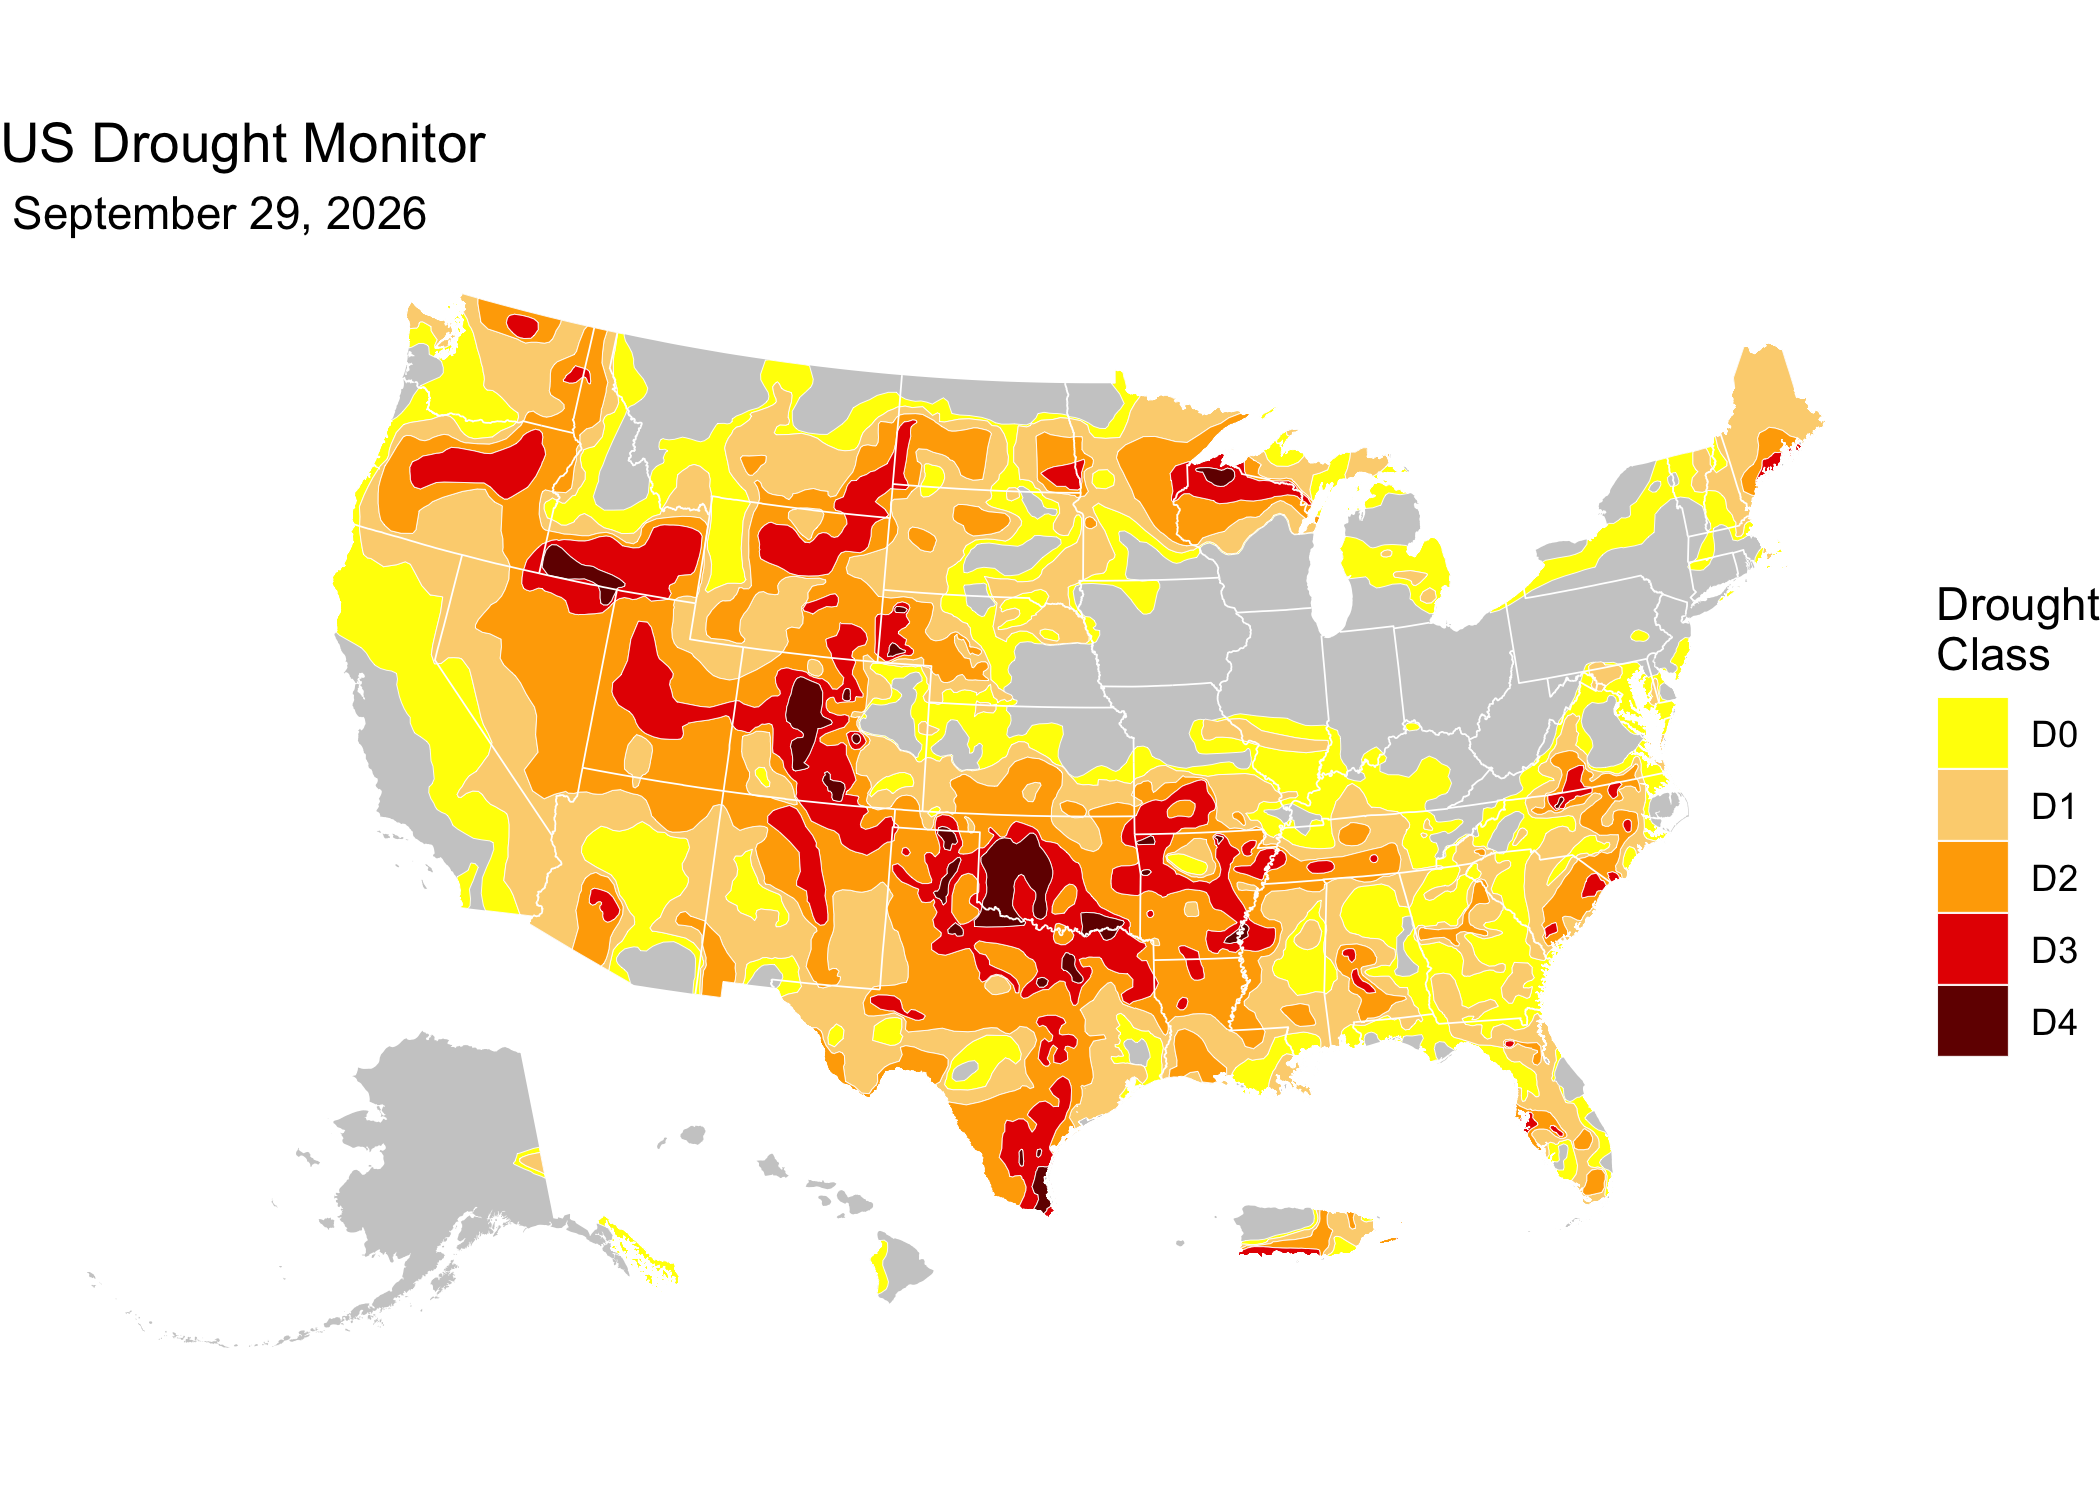
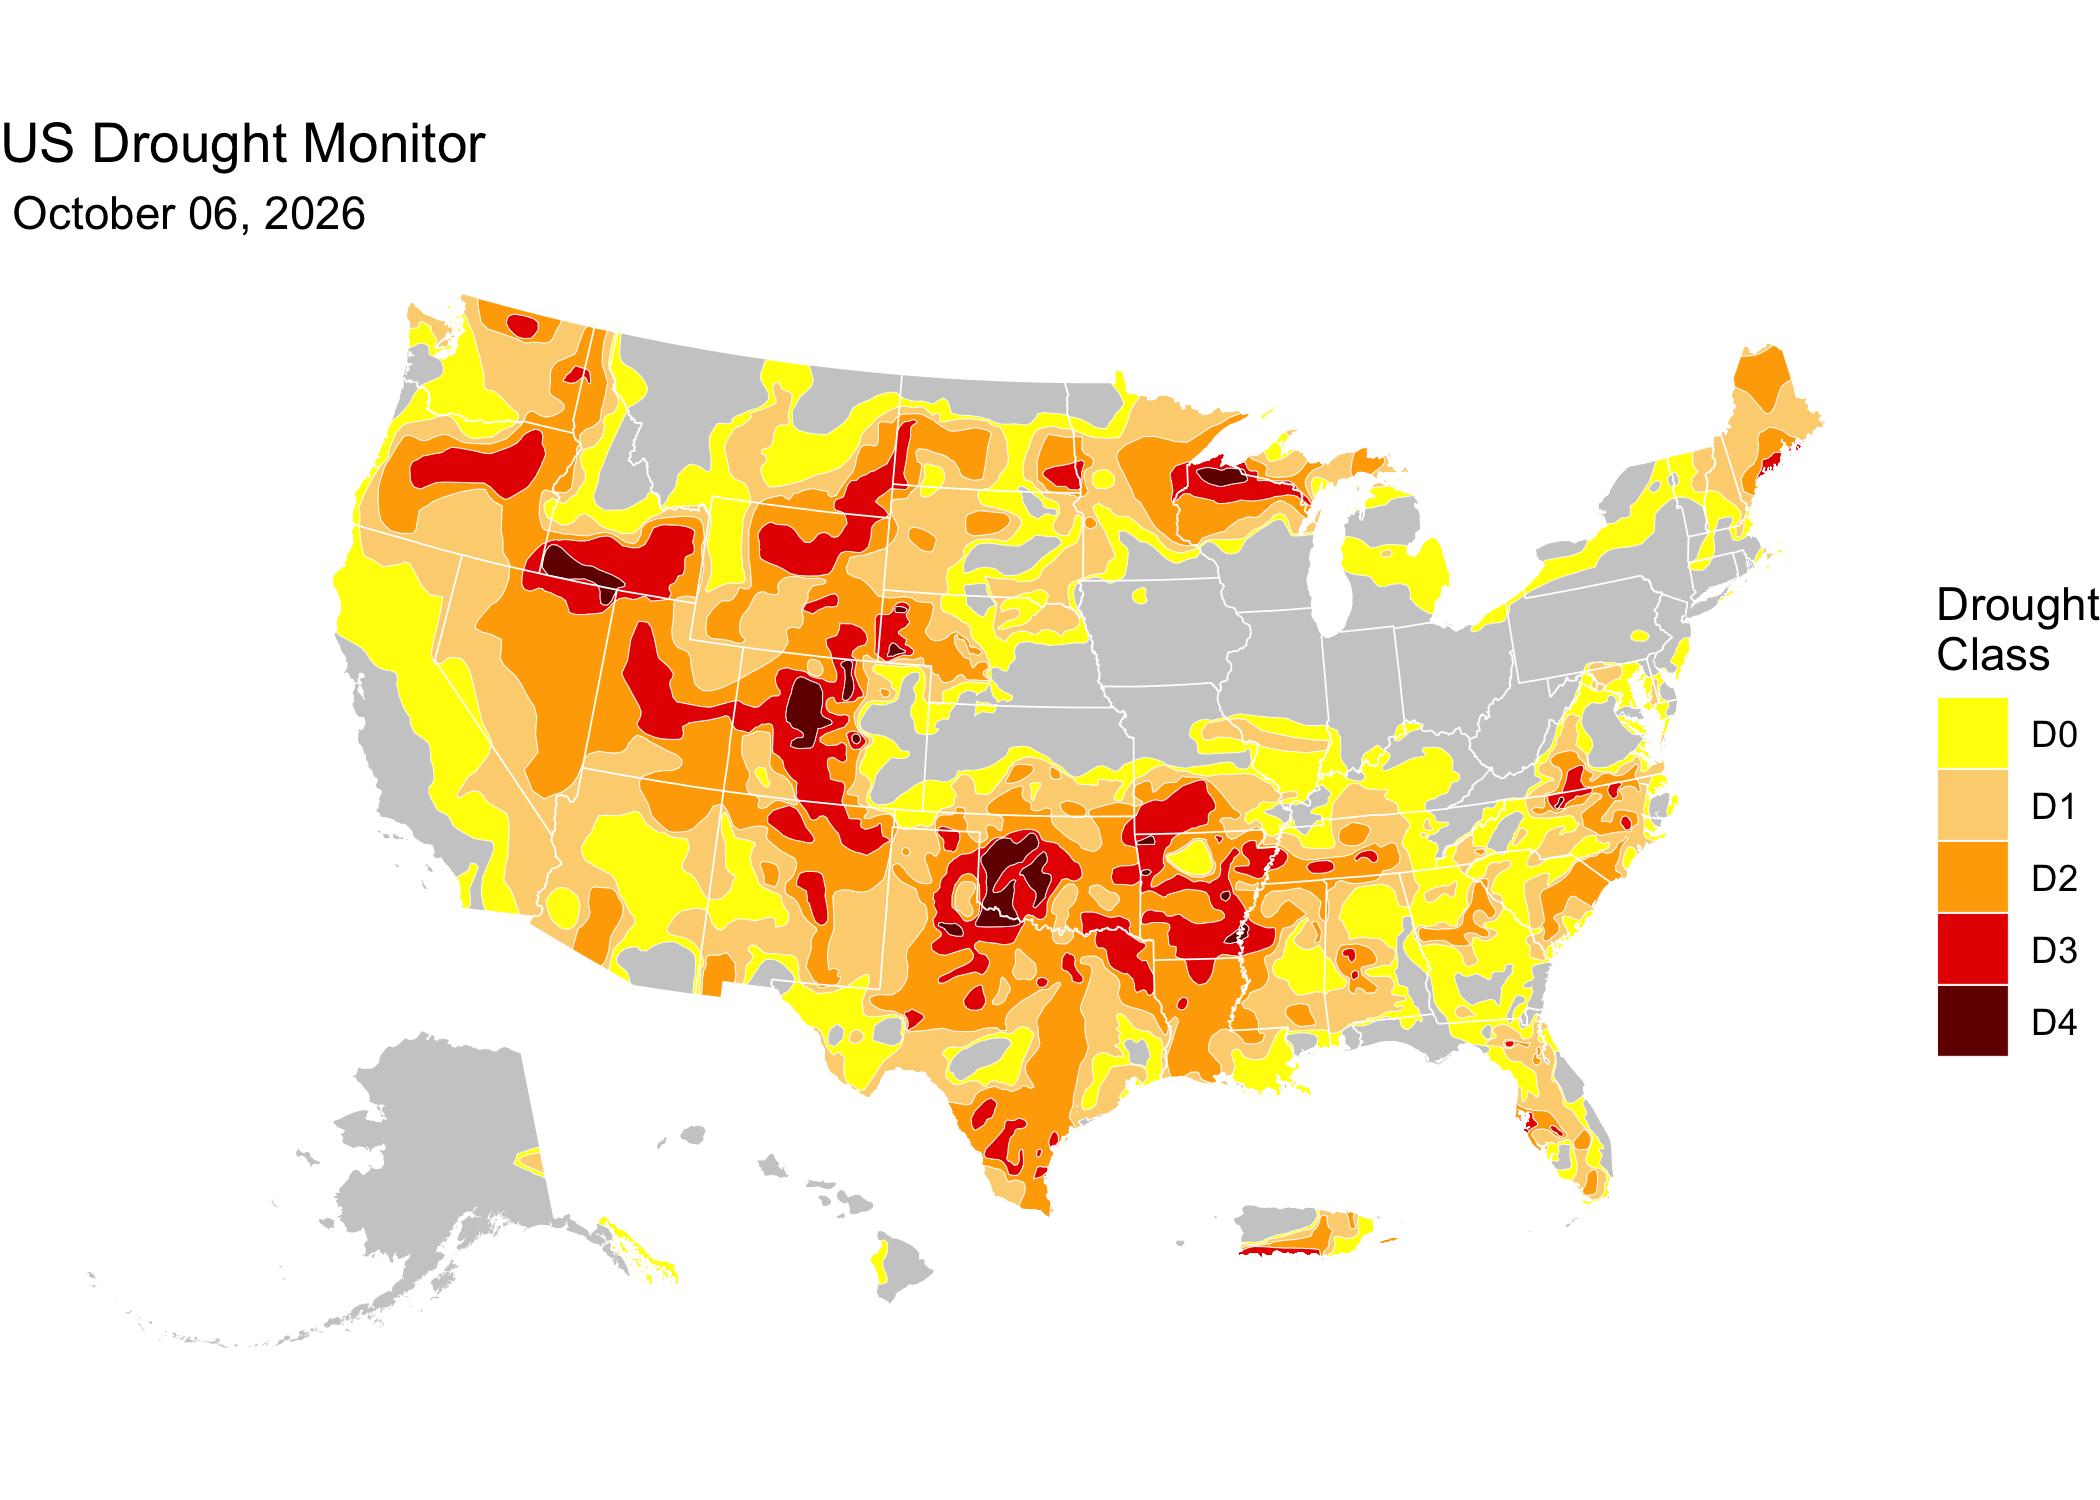
Weekly README render

diff --git a/README.md b/README.md
@@ -277,7 +277,7 @@ ggplot(usdm_sf) +
 
 <img src="./example-1.png" alt="" style="display: block; margin: auto;" />
 
-Latest USDM map date: **September 29, 2026**
+Latest USDM map date: **October 06, 2026**
 
 To work with the **unclipped** product instead — the same weeks, but
 with polygons that extend past the US coastline and *nested* classes
